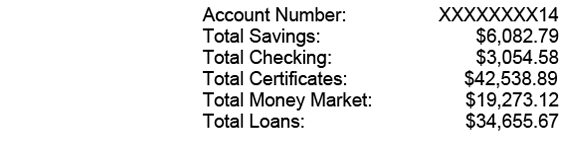
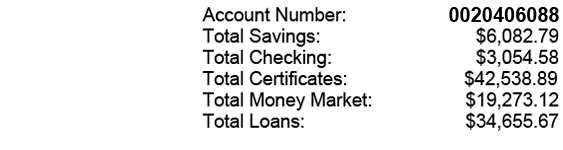
New assets for RegSym masking and updateMasking()

Changed region(s): [[0.7549, 0.0267, 0.9964, 0.16]]

diff --git a/src/app/build-page/preview-pane/preview-pane.component.ts b/src/app/build-page/preview-pane/preview-pane.component.ts
@@ -774,23 +774,53 @@ export class PreviewPaneComponent implements OnInit {
   // Uses variable activeMaskType and changes view accordingly upon update from the survey pane
   updateMasking()
   {
-    let headerSectionBuffer:HTMLElement = document.getElementsByClassName("headerSection")[0] as HTMLElement;
-    let headerSectionPage2Buffer:HTMLElement = document.getElementsByClassName("p2headerSection")[0] as HTMLElement;
-    
-    if (this.activeMaskType == "none")
+    // Determine which divs to update
+    var headerSectionBuffer:HTMLElement;
+    var headerSectionPage2Buffer:HTMLElement;
+
+    // Make the changes to the account masking in the headers on both pages
+    if (this.activeSymitarCC)
     {
-      headerSectionBuffer.style.backgroundImage="url(../../../assets/ccSymitar/page1/ccHeader.png)";
-      headerSectionPage2Buffer.style.backgroundImage="url(../../../assets/ccSymitar/page2/ccHeader2.png)";
+      headerSectionBuffer = document.getElementsByClassName("headerSection")[0] as HTMLElement;
+      headerSectionPage2Buffer = document.getElementsByClassName("p2headerSection")[0] as HTMLElement;
+      if (this.activeMaskType == "none")
+      {
+        headerSectionBuffer.style.backgroundImage="url(../../../assets/ccSymitar/page1/ccHeader.png)";
+        headerSectionPage2Buffer.style.backgroundImage="url(../../../assets/ccSymitar/page2/ccHeader2.png)";
+      }
+      else if (this.activeMaskType == "to3")
+      {
+        headerSectionBuffer.style.backgroundImage="url(../../../assets/ccSymitar/page1/ccHeaderMaskTo3.png)";
+        headerSectionPage2Buffer.style.backgroundImage="url(../../../assets/ccSymitar/page2/ccHeader2MaskTo3.png)";
+      }
+      else if (this.activeMaskType == "to4")
+      {
+        headerSectionBuffer.style.backgroundImage="url(../../../assets/ccSymitar/page1/ccHeaderMaskTo4.png)";
+        headerSectionPage2Buffer.style.backgroundImage="url(../../../assets/ccSymitar/page2/ccHeader2MaskTo4.png)";
+      }
     }
-    else if (this.activeMaskType == "to3")
+    else if (this.activeSymitarReg)
     {
-      headerSectionBuffer.style.backgroundImage="url(../../../assets/ccSymitar/page1/ccHeaderMaskTo3.png)";
-      headerSectionPage2Buffer.style.backgroundImage="url(../../../assets/ccSymitar/page2/ccHeader2MaskTo3.png)";
-    }
-    else if (this.activeMaskType == "to4")
-    {
-      headerSectionBuffer.style.backgroundImage="url(../../../assets/ccSymitar/page1/ccHeaderMaskTo4.png)";
-      headerSectionPage2Buffer.style.backgroundImage="url(../../../assets/ccSymitar/page2/ccHeader2MaskTo4.png)";
+      headerSectionBuffer = document.getElementsByClassName("AccountInfoReg")[0] as HTMLElement;
+      headerSectionPage2Buffer = document.getElementsByClassName("p2headerSectionReg")[0] as HTMLElement;
+      if (this.activeMaskType == "none")
+      {
+        if (this.activeGlance != "off")
+          headerSectionBuffer.style.backgroundImage="url(../../../assets/regSymitar/page1/accountGlance.png)";
+        headerSectionPage2Buffer.style.backgroundImage="url(../../../assets/regSymitar/page5/statementHeader.png)";
+      }
+      else if (this.activeMaskType == "to3")
+      {
+        if (this.activeGlance != "off")
+          headerSectionBuffer.style.backgroundImage="url(../../../assets/regSymitar/page1/accountGlanceMaskTo3.png)";
+        headerSectionPage2Buffer.style.backgroundImage="url(../../../assets/regSymitar/page5/statementHeaderMaskTo3.png)";
+      }
+      else if (this.activeMaskType == "to4")
+      {
+        if (this.activeGlance != "off")
+          headerSectionBuffer.style.backgroundImage="url(../../../assets/regSymitar/page1/accountGlanceMaskTo4.png)";
+        headerSectionPage2Buffer.style.backgroundImage="url(../../../assets/regSymitar/page5/statementHeaderMaskTo4.png)";
+      }
     }
   }
 
